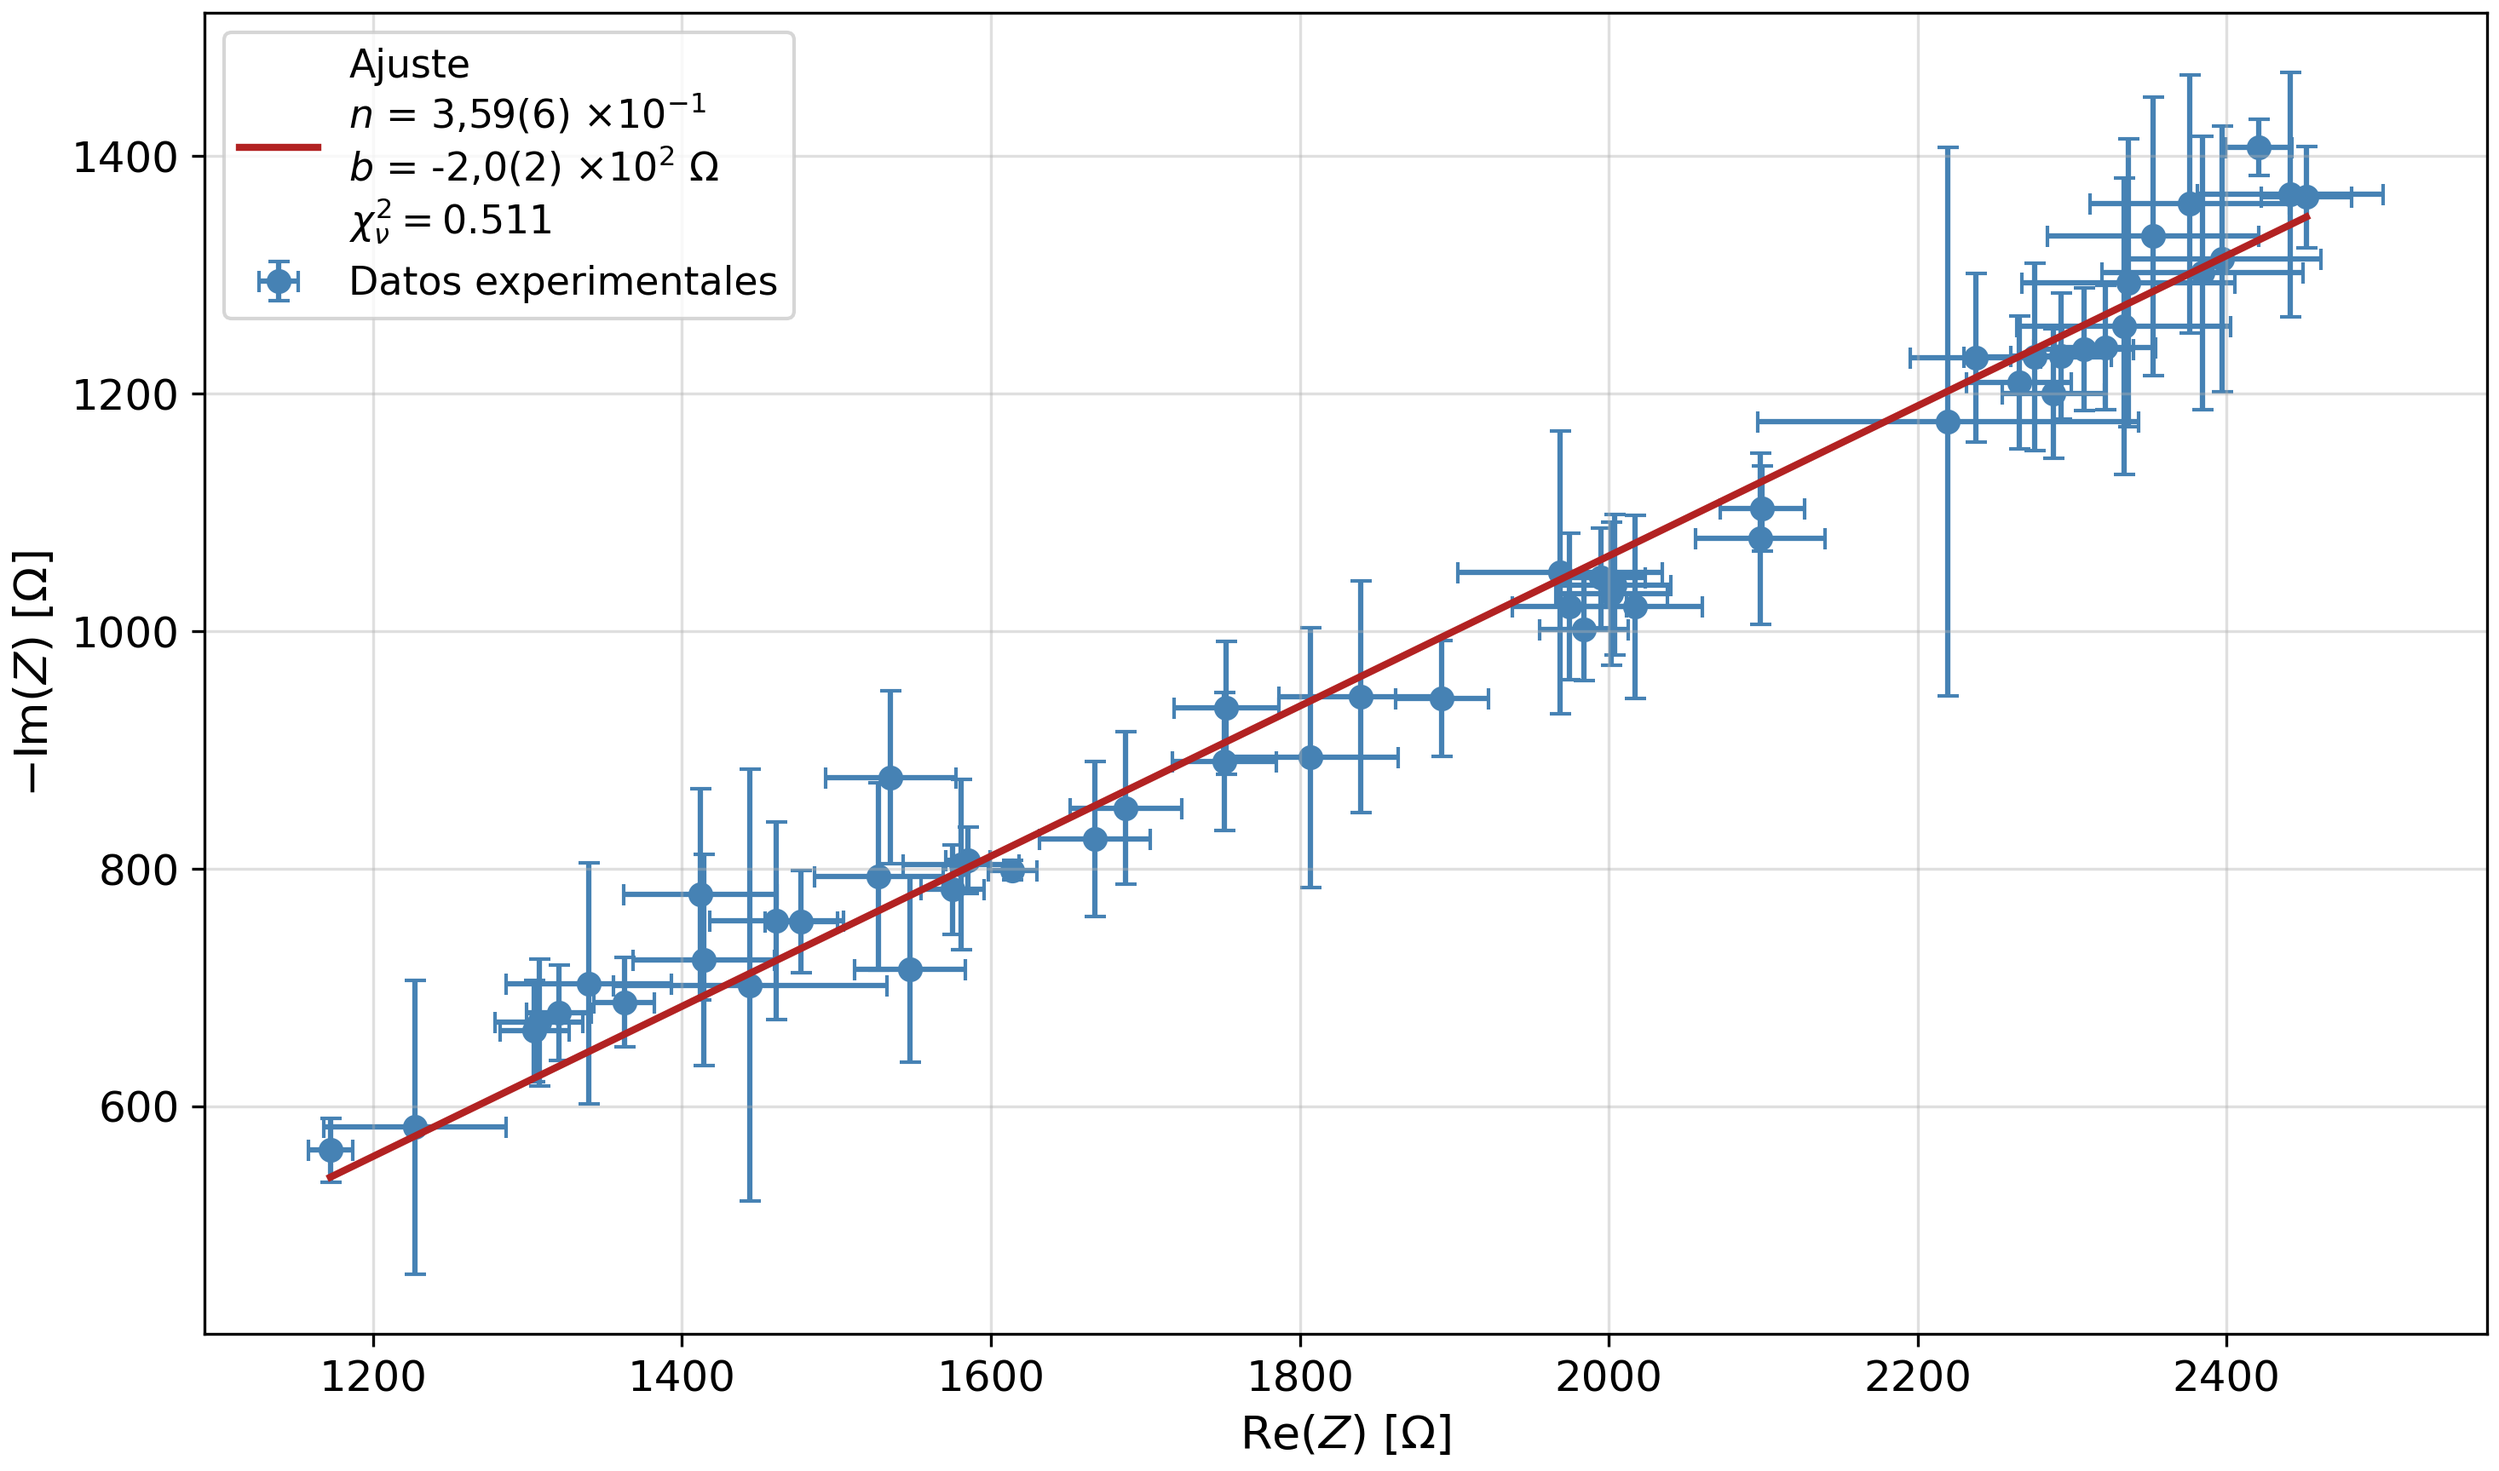
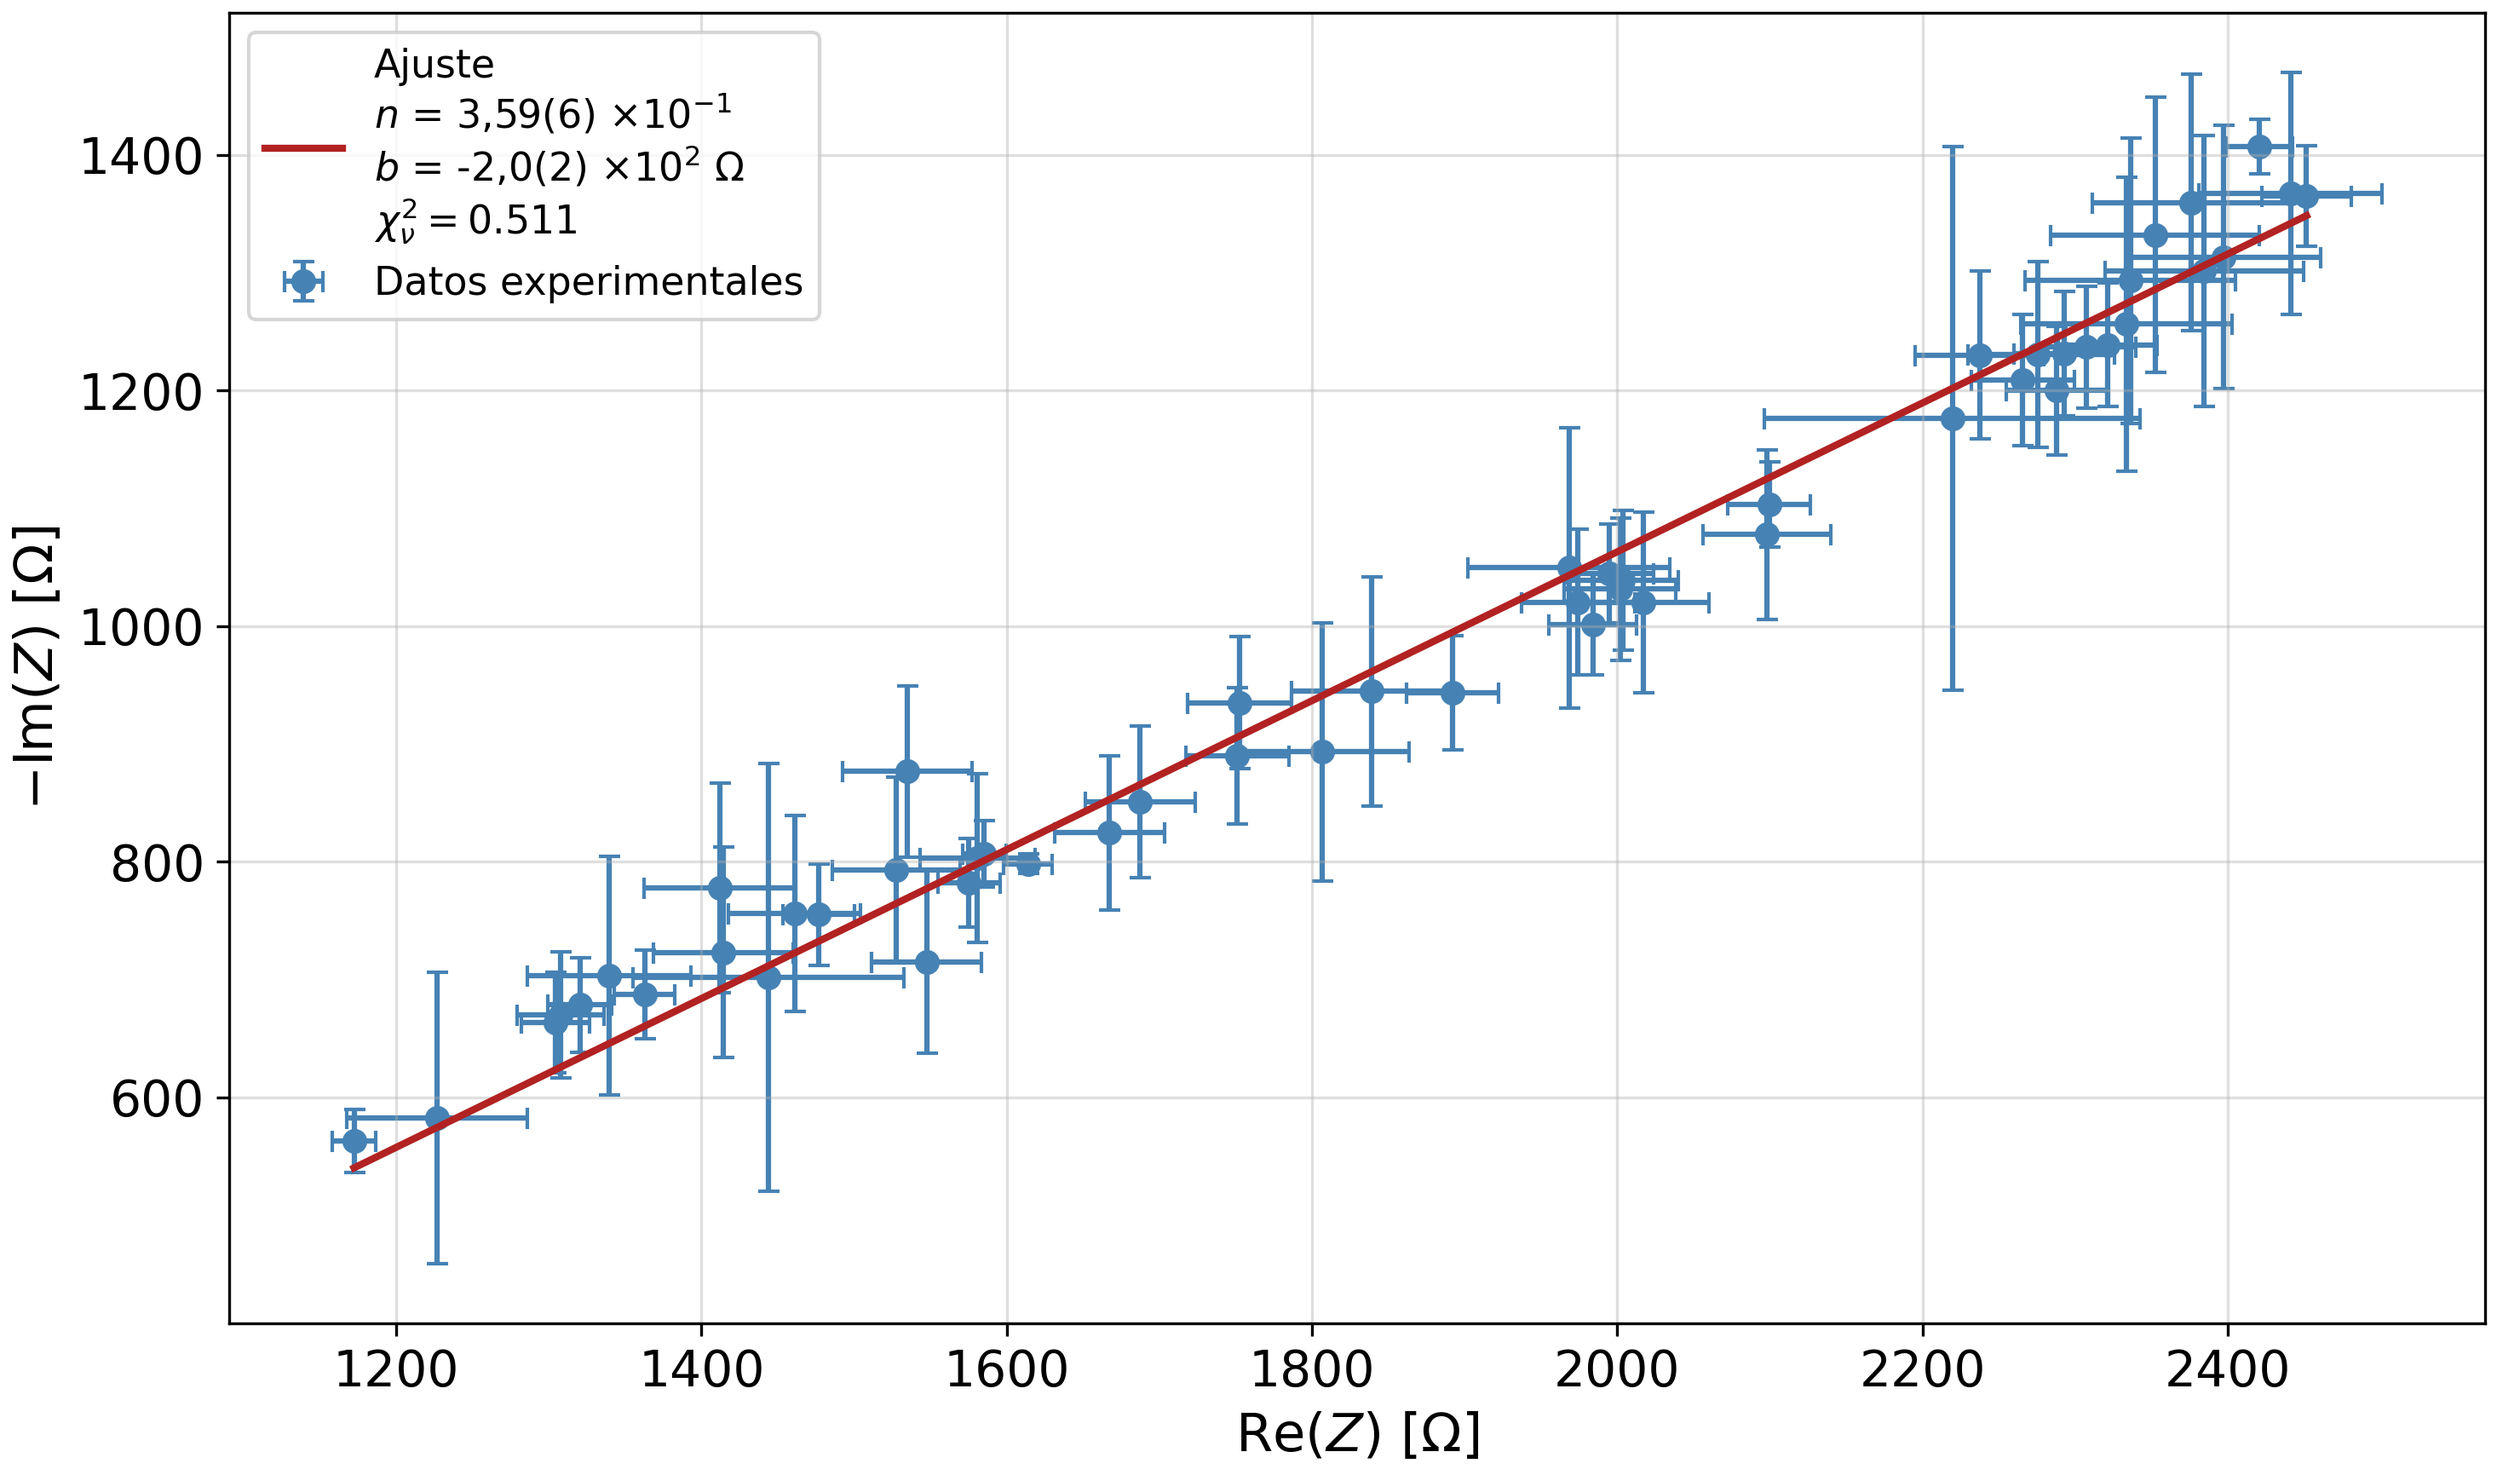
Correcciones finales.

diff --git a/Experimento V, Cajita Feliz/Codigo/funciones2.py b/Experimento V, Cajita Feliz/Codigo/funciones2.py
@@ -360,8 +360,8 @@ import matplotlib.pyplot as plt
 
 def graficar_bode_impedancia(
     df,
-    fontsize_labels=13,
-    fontsize_ticks=11,
+    fontsize_labels=15,
+    fontsize_ticks=13,
     fontsize_legend=11
 ):
     # Creamos la figura y el primer eje (Izquierdo - Impedancia)
@@ -601,9 +601,9 @@ def ajustar_cpe_nyquist_omega(
         label=label_fit
     )
 
-    ax.set_xlabel(r"$\mathrm{Re}(Z)$ [$\Omega$]", fontsize=13)
-    ax.set_ylabel(r"$-\mathrm{Im}(Z)$ [$\Omega$]", fontsize=13)
-    ax.tick_params(axis='both', which='major', labelsize=12)
+    ax.set_xlabel(r"$\mathrm{Re}(Z)$ [$\Omega$]", fontsize=15)
+    ax.set_ylabel(r"$-\mathrm{Im}(Z)$ [$\Omega$]", fontsize=15)
+    ax.tick_params(axis='both', which='major', labelsize=14)
   
     ax.grid(True, alpha=0.4)
     ax.legend(fontsize=11)
@@ -1009,9 +1009,9 @@ def ajustar_modelo_R_RpCp_CPE_Cs_ReIm(
                     fontsize=8
                 )
 
-        ax.set_xlabel(r"$\mathrm{Re}(Z)$ [$\Omega$]", fontsize=12)
-        ax.set_ylabel(r"$-\mathrm{Im}(Z)$ [$\Omega$]", fontsize=12)
-        ax.tick_params(axis='both', which='major', labelsize=11)
+        ax.set_xlabel(r"$\mathrm{Re}(Z)$ [$\Omega$]", fontsize=13)
+        ax.set_ylabel(r"$-\mathrm{Im}(Z)$ [$\Omega$]", fontsize=13)
+        ax.tick_params(axis='both', which='major', labelsize=12)
 
         ax.grid(True, alpha=0.4)
         ax.legend(fontsize=11, loc="lower right")

diff --git a/Experimento V, Cajita Feliz/Informe 5/4Resultados y discusión.tex b/Experimento V, Cajita Feliz/Informe 5/4Resultados y discusión.tex
@@ -68,7 +68,7 @@ $R_s$ & 762(7) [$\Omega$] \\ \hline
 $R_p$ & 988(22) [$\Omega$] \\ \hline
 $C_p$ & 239(6) [$\mathrm{nF}$] \\ \hline
 $Q$ & 117(5) [$\mu\mathrm{S}\,\mathrm{s}^{n}$] \\ \hline
-$C_s$ & 1.61(2) [$\mu\mathrm{F}$] \\ \hline
+$C_s$ & 1,61(2) [$\mu\mathrm{F}$] \\ \hline
 \end{tabular}
 \label{tab:parametros-ajuste}
 \end{table}
